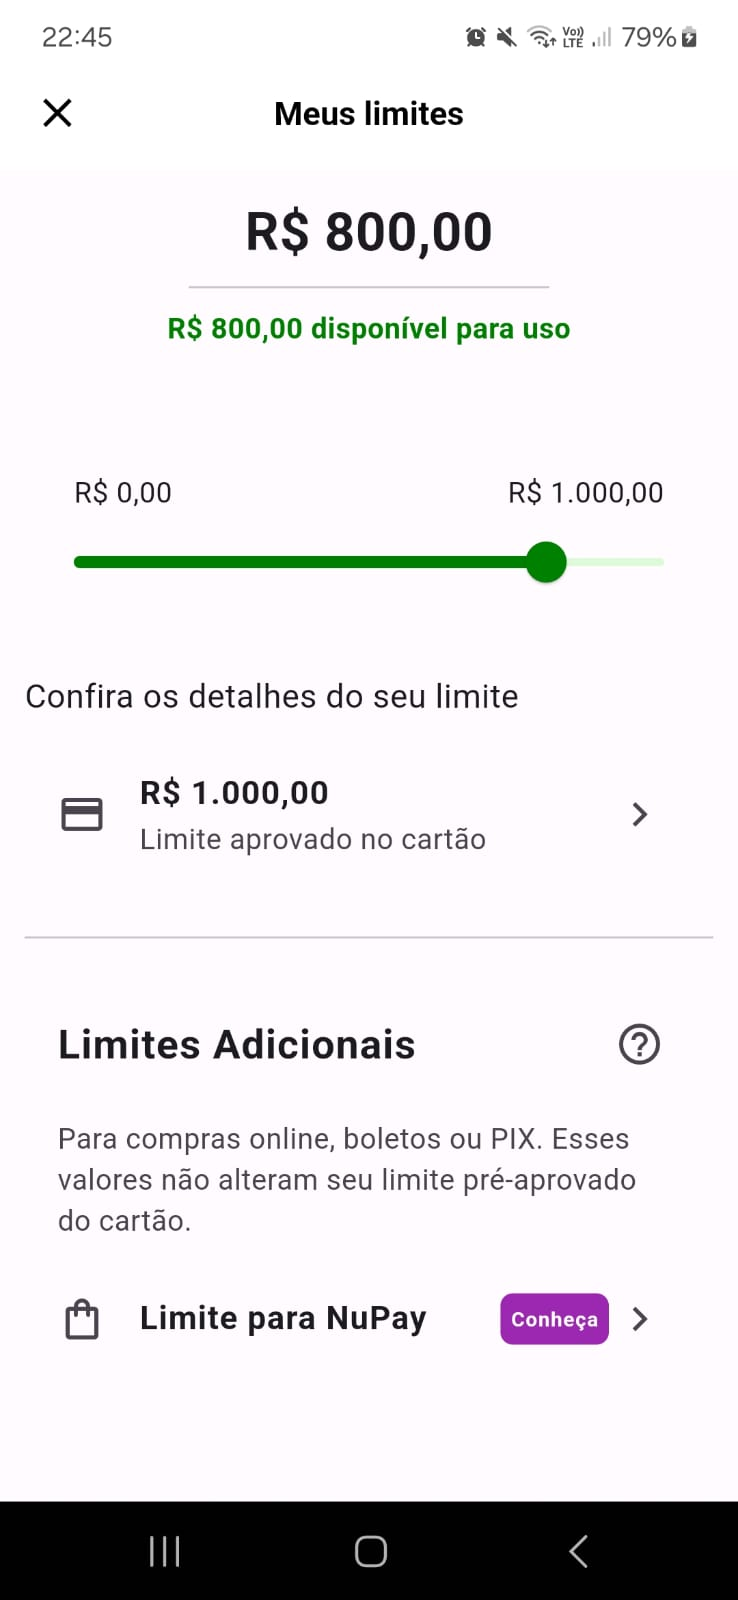
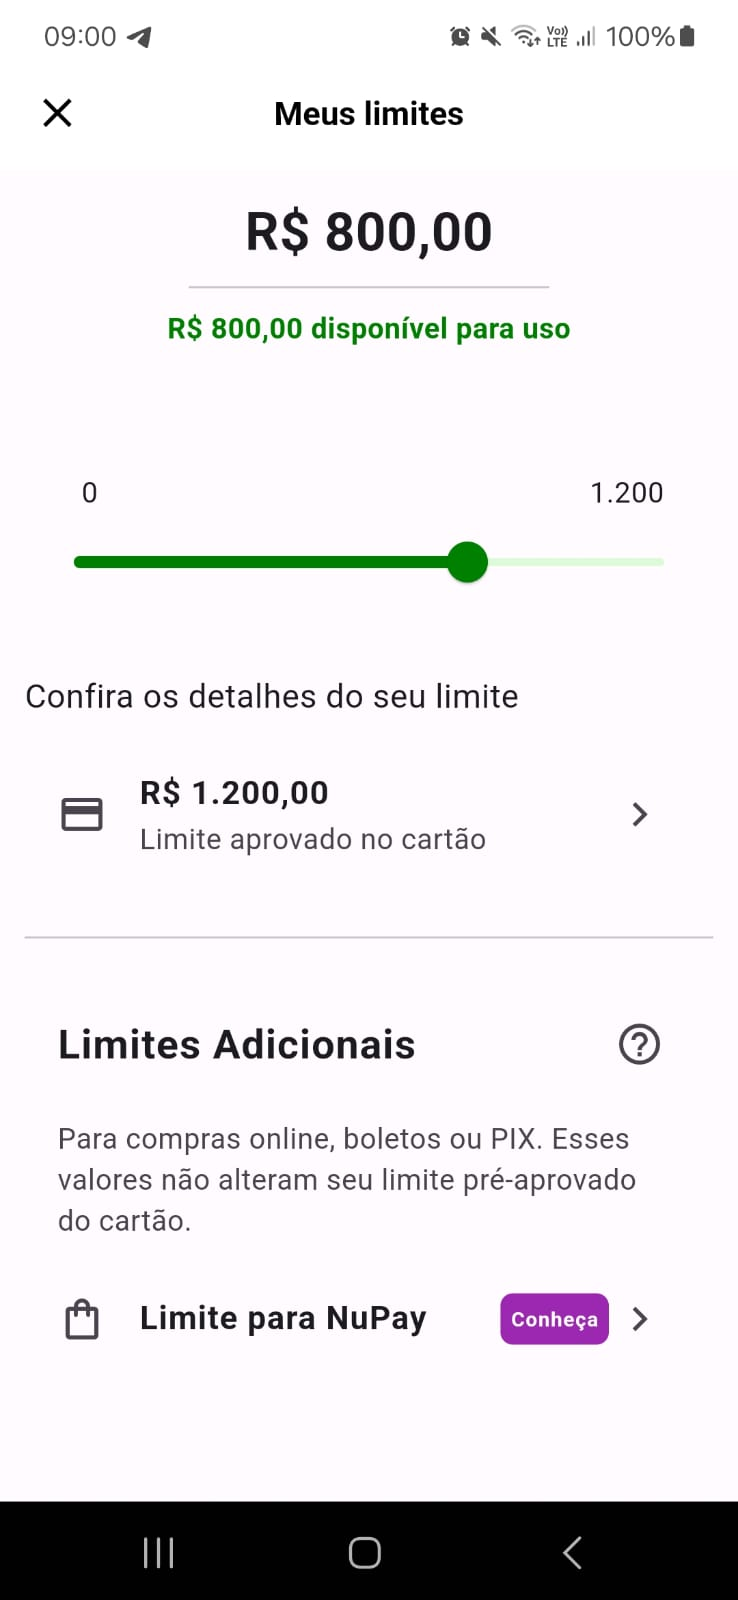
update

diff --git a/lib/meus_limites.dart b/lib/meus_limites.dart
@@ -11,12 +11,18 @@ class MeusLimites extends StatefulWidget {
 class _MeusLimitesState extends State<MeusLimites> {
   double valorEscolhido = 800;
   double valorMinimo = 0;
-  double valorMaximo = 1000;
+  double valorMaximo = 1200;
 
-  final NumberFormat currencyFormat = NumberFormat.currency(
+  final NumberFormat formatoReal = NumberFormat.currency(
     locale: 'pt_BR',
     symbol: 'R\$',
     decimalDigits: 2,
+  );
+
+  final NumberFormat formatoDecimal = NumberFormat.currency(
+    locale: 'pt_BR',
+    symbol: '',
+    decimalDigits: 0,
   );
 
   @override
@@ -40,7 +46,7 @@ class _MeusLimitesState extends State<MeusLimites> {
             SizedBox(),
             Center(
               child: Text(
-                currencyFormat.format(valorEscolhido),
+                formatoReal.format(valorEscolhido),
                 style: TextStyle(
                   fontSize: 26,
                   fontWeight: FontWeight.bold,
@@ -52,7 +58,7 @@ class _MeusLimitesState extends State<MeusLimites> {
             SizedBox(height: 2),
             Center(
               child: Text(
-                currencyFormat.format(valorEscolhido) + " disponível para uso",
+                formatoReal.format(valorEscolhido) + " disponível para uso",
                 style: TextStyle(
                   fontSize: 14,
                   color: Color(0xFF008000),
@@ -67,11 +73,11 @@ class _MeusLimitesState extends State<MeusLimites> {
                 mainAxisAlignment: MainAxisAlignment.spaceBetween,
                 children: [
                   Text(
-                    currencyFormat.format(valorMinimo),
+                    formatoDecimal.format(valorMinimo),
                     style: TextStyle(fontSize: 14),
                   ),
                   Text(
-                    currencyFormat.format(valorMaximo),
+                    formatoDecimal.format(valorMaximo),
                     style: TextStyle(fontSize: 14),
                   ),
                 ],
@@ -81,6 +87,7 @@ class _MeusLimitesState extends State<MeusLimites> {
               value: valorEscolhido,
               max: valorMaximo,
               min: valorMinimo,
+              divisions: (valorMaximo/10).round(),
               activeColor: Color(0xFF008000),
               inactiveColor: Color(0xFFddfada),
               onChanged: (double valor) {
@@ -98,7 +105,7 @@ class _MeusLimitesState extends State<MeusLimites> {
             ListTile(
               leading: Icon(Icons.credit_card),
               title: Text(
-                currencyFormat.format(valorMaximo),
+                formatoReal.format(valorMaximo),
                 style: TextStyle(fontWeight: FontWeight.bold),
               ),
               subtitle: Text("Limite aprovado no cartão"),
